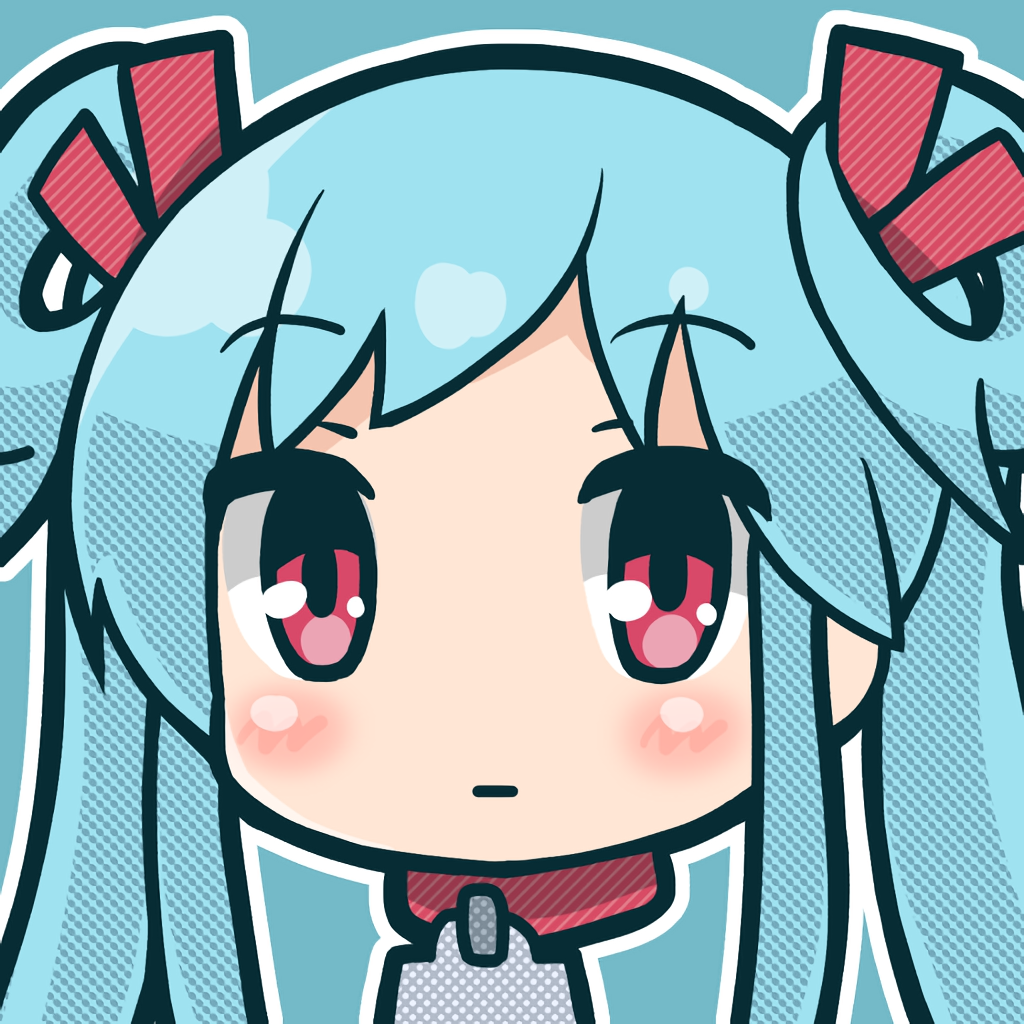
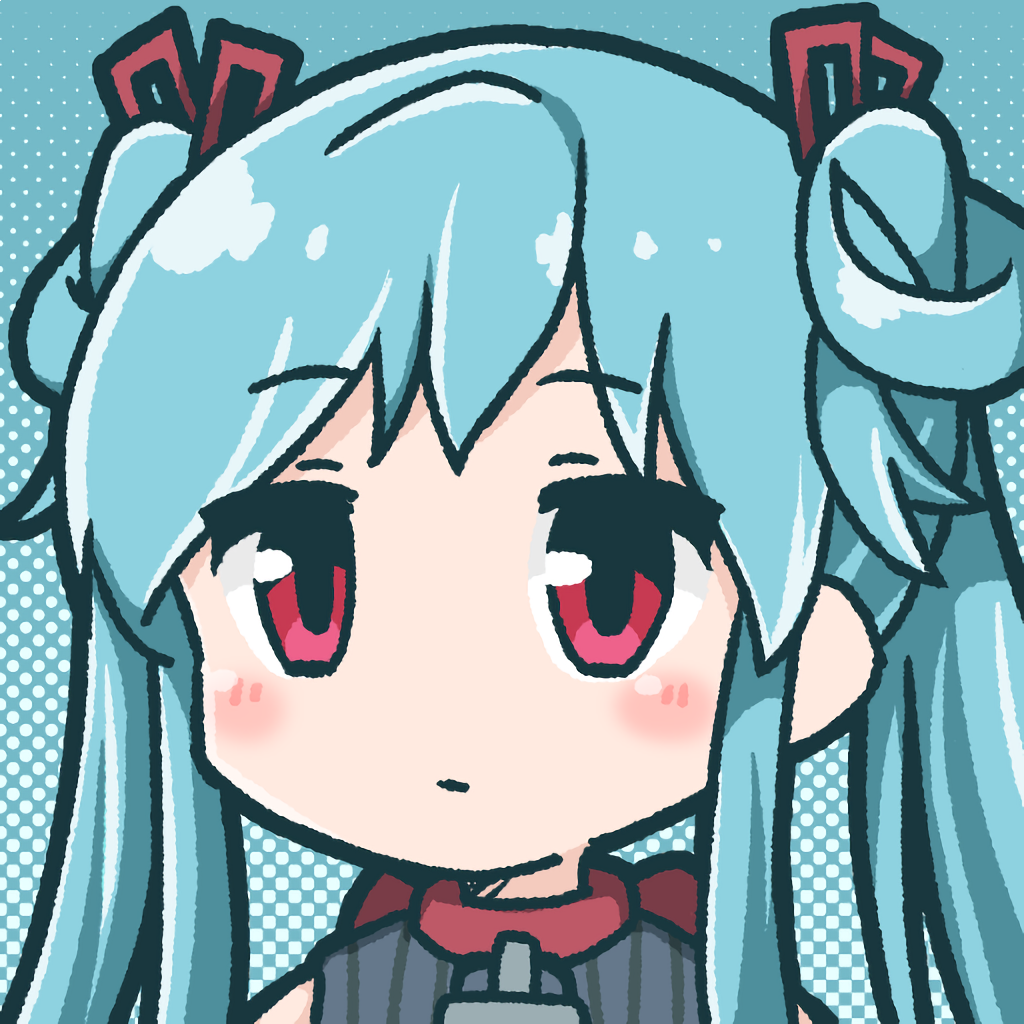
update profile picture
thanks: @yaplus

diff --git a/index.html b/index.html
@@ -1,90 +1,90 @@
 <!-- maud.io - maud-chan is so cute! (Special thanks:@yaplus)
 
-;;;;;;;;;;;;;;;;;;;;;;;;;;;;;;;;;;;;;;;;;;;;;;;;;;;;;;;;;;;;;;;;;;;;;;;;;;;;;;;;;;;;;;;;;;;;;;;;;;;;;;;;;;;;;;;;;;;;;;;;;;;;;;;;;;;;;;;;;;;;;;;;;;;;;;;;;;;;;;;;;;;;;;;;;;
-;;;;;;;;;;;;;;;;;;;;;;;;;;;;;;;         ;;;;;;;;;;;;;;;;;;;;;;;;;;;;;;;;;;;;;;;;;;;;;;;;;;;;;;;;;;;;;;;;;;;;;;;;;;;;;;;;;;;;;;;;;;;;;;;;;              ;;;;;;;;;;;;;;;;;;;
-;;;;;;;;;;;;;;                    ;;;;   ;;;;;;;;;;;;;;;;;;;;;;;;;;;;;;;;;;;                   ;;;;;;;;;;;;;;;;;;;;;;;;;;;;;;;;;;;;;;;;;  ;*#*;;;;;;          ;;;;;;;;;;;;
-;;;;;;;;;;      ;;;;;;;;;;;;;*########*   ;;;;;;;;;;;;;;;;;;;;;;;;;             ;;;;;;;;;;;               ;;;;;;;;;;;;;;;;;;;;;;;;;;;;;   ###\##########;;;;      ;;;;;;;;
-;;;;;;;    ;;*###############;;;;;;;###   ;;;;;;;;;;;;;;;;;;         ;;;;;*#####################**;;;;;;         ;;;;;;;;;;;;;;;;;;;;;;   ###;;;;;;;;;;########*;  ;;;;;;;
-;;;;    ;;######*;;;##;;;;;;;;;;;;;;###   ;;;;;;;;;;;;       ;;;;*############**************###############*;;;       ;;;;;;;;;;;;;;;;;  ;##;;;;;;;;;;;;;;;;;###;      ;;;
-;;   ;;#####*;;    ;##;;;;;;;;;;;;;;###;  ;;;;;;;;      ;;;#######**;;;;;;;;                    ;;;;;;;**########*;;;     ;;;;;;;;;;;;;  ;##;;;;;;;;;;;;;;;;;#####*;;
-   ;*####;;;       ;##;;;;;;;;;;;;;;###;  ;;;;     ;;;######*;;;;                                         ;;;;;*######*;;     ;;;;;;;;   ###;;;;;;;;;;;;;;;;##;;;;#####;;
- ;####*;;           ##*;;;;;;;;;;;;;###*       ;;*######;;;;                                                     ;;;*#####;;;    ;;;;   ;###;;;;;;;;;;;;;;;;#*     ;;*####
-*###*;      ;**;    ;##;;;;;;;;;;;;;;###    ;;#####*;;;                                                              ;;;*#####;;      ;#####;;;;;;;;;;;;;;;##;        ;;*#
-###;       ;####;   ;##;;;;;;;;;;;;;;###;;*#####;;                                                                        ;;*####;;  *##;;##;;;;;;;;;;;;;;;#*        ;;; ;
-#*;      ;*#;;;##*;  ;##;;;;;;;;;;;;;#######*;;                                                                              ;;;#######; ;#*;;;;;;;;;;;;;;##;;    ;;####;;
-;       ;##;;;;;*##;;;##;;;;;;;;;;;;;####*;                                                                                      ;;###;  ;#*;;;;;;;;;;;;;\#;;;;;*##;;;;;##
-      ;*#;;;;;;;;;##;;*#;;;;;;;;;;;\##*;                                                                                           ;#*    *#;;;;;;;;;;;;;#*;;*##;;;;;;;;;#
-     ;##;;;;;;;;;;;##;;##;;;;;;;;\##;;                                                              ;                              *#;    ;#;;;;;;;;;;;;##*##\;;;;;;;;;;;;
-    ;##;;;;;;;;;;;;;##*##;;;;;;\#*;                                                                ;;                              ##;     ;#;;;;;;;;;;*###;;;;;;;;;;;;;;;
-   ;;##;;;;;;;;;;;;;;####*;;;\#*;                   ;;                                             ;;                              *#;      ;##;;;;;;;##;;;;;;;;;;;;;;;;;;
- ;;;;;*#;;;;;;;;;;;;;;####;\#*;                    ;;                                             ;*                               *#;       ;##;;;*##;;;;;;;;;;;;;;;;;;;;
-;;;;;;;;##;;;;;;;;;;;;;#####;                     ;;                                              *;                               *#;        ;#####;;;;;;;;;;;;;;;;;;;;;;
-;;;;;;;;###;;;;;;;;;;;;;##;                      ;;                                              ;*                                ;#;         ;###;;;;;;;;;;;;;;;;;;;;;;;
-;;;;;;;######;;;;;;;;;;##;                      ;*                                              ;#;                                ;##          ;*#\;;;;;;;;;;;;;;;;;;##*;
-;;;;;*###; ;###;;;;;;\#*                       ;#;                                             ;#;                                  ;#;          ;*##;;;;;;;;;;;;\####;;;;
-;;;;*###;  ;#####;;;##;                       ;#;                                             ;##*                                  ;##;           ;##;;;;;;;\#####*##;;;;
-;;;;###;   *##; ;####;                        **                                            ;;#;;#;                                  ;#;            ;;##\###*;;;*##;###;;;
-;;;;###   ;##* ;;###;                        ;#;                                           ;##; ;#;                                   *#;             ;*##;     ;######;;;
-;;;*###;  ;##**#*##;                        ;##                                          ;;#;;  ;#;             ;#                    ;*#;              ;*#;;    ;#####;;;
- ;;;#########*;;*#;                       ;;*##;;;;;;;;;      ;*;                      ;;#*;     *#;      ;;;;;*##*;;;;;;              ;*#;               ;*#*;; ;####*;;;
-    ;;;;;;;;   ;#;                     ;;;;;##;  ;;;;;;;*;   ;*#;                    ;;#*;       ;#;  ;;;;;;;;;*#;; ;;;;**;;            ;*#;                ;;*##*###*;;;;
-              ;#*                    ;;;  ;*#*              ;###;                  ;*#;;          ##; ;       ;#;;#;      ;;#;           ;*#;                   ;;;;;
-             ;##;                   ;;    *##;             ;##;#;               ;;##;;            ;#;        ;#;  ;;         ;             ;#;
-            ;##;                         ;###;           ;;##;;#;            ;;*#;;                ;#;       *#;  ;#                        ;#*;
-           ;;##                         ;#;##;          ;*#;; ;#;         ;;*#*;                    *#;     ;#*    #;                       ;;##;                  ;
-; ; ;;;;;;;;##;                        ;#; ##;        ;;##;   ;#;      ;;*#*;                        #*;    *#;    ;#                    ;;;;;;*#;;               ;#;;;
-;;;;;;;;;;;*#*                        ;##; ##;       ;##;     #*   ;;;*#;;                           ;#*   ;##     ;#;            ; ;;;;;;;;;;;;;#*; ;            ;#;;;;;;
-;;;;;;;;;;;##;  ; ;                   ;#;  ##;     ;*#;;     ;#*;*##*;;                               ;#;  ;#;      ;#;      ; ;;;;;;;;;;;;;;;;;;;*#;;;;          ;#;;;;;;
-;;;;;;;;;;*##  ;;;;;; ;              ;#*   ##;   ;*#;;;;;;;  ;;;;;;                                ;;;;;#; ;#;      ;#*  ;;;;;;;;;;;;;;;;;;;;;;;;;;;#*;;;;;; ;    ;#*;;;;;
-;;;;;;;;;;##;  ;;;;;;;;;;;;; ;       *#;   ;#; ;*#;;    ;;;;                                            ;#;;#;       ;#; ;;;;;;;;;;;;;;;;;;;;;;;;;;;;*#*;;;;;;;;;;;##;;;;;
-;;;;*;;;;;##;  ;;;;;;;;;;;;;;;;;;;;;;#; ;;;;#**##;;;;;;                                                ;;;####****;;;;##; ;;;;;;;;;;;;;;;;;;;;;;;;;;;;;*#;;;;;;;;;;;#*;;;;
-*;;;;;;;;###; ;;;;;;;;;;;;;;;;;;;;;;####################*;;                                        ;;*####################*;;;;;;;;;;;;;;;;;;;;;;;;;;;;;;*#;;;;;;;;;######
-;;;;;;;;####; ;;;;;;;;;;;;;;;;;;;;;########################*;                                     ;##########################*;;;;;;;;;;;;;;;;;;*;;;;;;;;;;*#;;;;;;;;#*;##
-;;;;;;;#####  ;;;;;;;;;;;;;;;;;;;;###########*###############;                                   *####**#######################;;;;;;;;;;;;;;;;;;*;;;;;;;;;;;#*;;;;;;*#*##
-;;;;;;######  ;;;;;;;;;;;;;;;;;;;;####*;;;;  ;##############;;;                                 ;#;;;;;*################;;######;;;;;;;;;;;;;;;;;*;;;;;;;;;;;#**#;;;;;####
-;;;;*#######  ;;;;;;;;;;;;;;;;;;;;*##;      ;###############*                                         ;##################;;#*;*#;;;;;;;;;;;;;;;;;;#;;;;;;;; *#;;;##;;;;###
-;;;####;####; ;;;;;;;;;;;;;;;;;;;;*##;     ;#################;                                       ;###################; ;#*;;; ;;;;;;;;;;;;;;;;#;;;;;;;;;#*;;;;;##*;;##
-;*###;  ####; ;;;;;;;;;;;;;;;;;;;;*#;      ;##################                                       ;####################  ;##;  ;;;;;;;;;;;;;;;;;#;;;;;; *#;;;;;;;;*#**#
-###;    ####;  ;;;;;;;;;;;;;;;;;;;*#;      ;##################;                                      ;####################  ;###;   ;;;;;;;;;;;;;;;#;;;;; ;#*;;;;;;;  ;###
-#;;     #####  ;   ;;;;;;;;;;;;;;;*#;      ;####*;;#####;;;;##;                                      ;###\;;######\;\#####  ;#;;#*;  ;;;;;;;;;;;;;;##;;; ;##;;;;;;;;  ;###
-    ;   #####; ;   ;;;;;;;;;;;;;;;*#;      ;##;;;;*#####;;;;##*                                      ;##;;;;######;;;;;###  ;#;;;*#;;   ;;;;;;;;;;;;#;; ;*#;;;;;;;;;  ;##*
-  ;;;  ;#####* ;*;  ;;;;;;;;;;;;;;*#;      ;#;;   ;#####;;;;##*                                      ;;;   ;######;;;;;##*  ;#;;;;;*#*;   ;;;;;;;;;;#* ;*#;;;;;;;;;;  ;###
-;;;;;  ;##*###;;#;   ;;;;;;;;;;;;;*#;              *####;;;;##;                                             ;#####;;;;;##;  ;#*;;;;;;;#*;    ;;;;;;;##;##;;;;;;;;;;;   ###
-;;;;;  ;##*;##*;##;  ;;;;;;;;;;;;;*#;             ;\####;;  ;#;                                             ;;###;;;; ;*#   ;#*;;;;;;;;*##;;    ;;;;*###;;;;;;;;;;;;   *##
-;;;;;  ;##* *#####*;   ;;;;;;;;;;;;#;       ;;;;;;;;;;;;;;;;*#;                                      ;;    ;;;;;;;;;   ;;   ;##;;;;;;;;*#*;**;;   ;;;##;;;;;;;;;;;;    ;##
-;;;;;  ;### ;####;#*;   ;;;;;;;;;;;#;        *#;;;;      ;;##*                                        ##;;;;;      ;;;**     ##;;;;;;;;##*  ;;*#;;; ;#;;;;;;;;;;;;;    ;##
-;;;;;  ;###  ;###;;#*;  ;;;;;;;;;;;#;         ##;;;       ;##;                                        ;##;;;        ;#*      ##;;;;;;;;###      ;;*#*#*;;;;;;;;;;;;     *#
-;;;;;  ;###   *##;;;#*;   ;;;;;;;;;#*         ;##\;     ;;##;                                          ##\;;      ;;##       ##;;;;;;;;*##        ;#;;;;;;;;;;;;;;;     ;#
-;;;;;  ;###   ;*#;;;;##;   ;;;;;;;;##           *##*;;;;###;                                           ;###\;;;;;;##;        ##;;;;;;;;*##        ##;;;;;;;;;;;;;;;     ;#
-;;;;;  ;##*   ;;*;;;;;*#*;  ;;;;;;;##            ;;;;**;;;;                                              ;;*####*;;          *#;;;;;;;;;##;      ;#*;;;;;;;;;;;;;;;      ;
-;;;;;  *##*   ;;;;;;;;;;##;   ;;;;;*#;                                                                                       *#;;;;;;;;;##;     ;##;;;;;;;;;;;;;;;;      ;
-;;;;   *##*   ;;;;;;;;;;;##*;   ;;;;#;                                                                                       ;#;;;;;;;;;##;    ;###;;;;;;;;;;;;;;;;
-;;;;   ###;   ;;;;;;;;;;;#**#*;;  ;##;                                                                                       ;#;;;;;;;;;##;  ;*####;;;;;;;;;;;;;;;;
-;;;;   ###;   ;;;;;;;;;;*#;;;*##;;;##;                                                                                       ;#;;;;;;;;;##*;#######;;;;;;;;;;;;;;;;
-;;;;  ;###;   ;;;;;;;;;;##;;;;;*##*##;                                                                                       ;#;;;;;;;;;*####;;;###;;;;;;;;;;;;;;;;
-;;;;  ;###;   ;;;;;;;;;;##;;;;;;;*###;                                                                                       ;#;;;;;;;;;;###;  ;###;;;;;;;;;;;;;;;;;
-;;;;  ;###;   ;;;;;;;;;;##;;;;;;;;;###                                                                                       ;#;;;;;;;;;;###;  ;###;;;;;;;;;;;;;;;;;
-;;;;  *##*    ;;;;;;;;;;##;;;;;;;;;;##;                                                                                      ;#;;;;;;;;;;###;  ;###;;;;;;;;;;;;;;;;;
-;;;   ###;    ;;;;;;;;;;##;;;;;;;;;;;##*;                                      ;;;;;;;                                      ;*#;;;;;;;;;;###;   ###;;;;;;;;;;;;;;;;;;
-;;;  ;###;    ;;;;;;;;;;##;;;;;;;;;;;####*;                                    ;;;;;;;                                   ;;####;;;;;;;;;;*##;   ###;;;;;;;;;;;;;;;;;;
-;;;  ;###    ;;;;;;;;;;;##;;;;;;;;;;;#######;;                                                                        ;;#######;;;;;;;;;;;##*   *##;;;;;;;;;;;;;;;;;;
-;;   *##;    ;;;;;;;;;;;##;;;;;;;;;;;###;;#####*;;                                                               ;;;*#####*;*##;;;;;;;;;;;###   ;##;;;;;;;;;;;;;;;;;;;
-;;   ###;    ;;;;;;;;;;;##;;;;;;;;;;;###    ;;*#####;;;;                                                   ;;;;*######*;;   *##;;;;;;;;;;;###   ;##; ;;;;;;;;;;;;;;;;;;
-;;  ;##*     ;;;;;;;;;;;##;;;;;;;;;;;###;       ;;;#######*;;;;;                                   ;;;;;*########*;;;       *##;;;;;;;;;;;###;   ###;;;;;;;;;;;;;;;;;;;
-;   ###;    ;;;;;;;;;;;;##;;;;;;;;;;;*##;  ;;;;      ;;;;###########**;;;;;;;;;;;;;;;;;;;;;;;;;*#######\;\;;;##*      ;;;   ###;;;;;;;;;;;###;   *##;;;;;;;;;;;;;;;;;;;
-;  ;###     ;;;;;;;;;;;;##;;;;;;;;;;;;##*   ;;;;;;;         ;;;;####\#######################\\\;;;;;;;;;;;;;;###;  ;;;;;;   ###;;;;;;;;;;;###;   ;##; ;;;;;;;;;;;;;;;;;;
-   *##;     ;;;;;;;;;;;;*#;;;;;;;;;;;;###   ;;;;;;;;;;;;;;      ####;;;;;;;;;;\;\\;;;;;;;;;;;;;;;;;;;;;;;;;;;\##;  ;;;;;;   ###;;;;;;;;;;;###;   ;##* ;;;;;;;;;;;;;;;;;;
-  ;###;    ;;;;;;;;;;;;;*#; ;;;;;;;;;;###;  ;;;;;;;;;;;;;;;;;   ####;;;;;;;;\#*;**##;;;;;;;;;;;;;;;;;;;;;;;;;*##;  ;;;;;;   ###;;;;;;;;;; ###;    ###; ;;;;;;;;;;;;;;;;;;;
-  *##;     ;;;;;;;;;;;;;;#* ;;;;;;;;;;;##;  ;;;;;;;;;;;;;;;;;   ####;;;;;;\;##;;;;;##;;;;;;;;;;;;;;;;;;;;;;;###;   ;;;;;;  ;##*;;;;;;;;;; ###;    ;##; ;;;;;;;;;;;;;;;;;;;
- ;##*      ;;;;;;;;;;;;;;## ;;;;;;;;;;;###   ;;;;;;;;;;;;;;;;;  ;####;;;;#**##;;;;;####;;;;;;;;;;;;;;\*######;    ;;;;;;;  ;##;;;;;;;;;;; ###;     ###;  ;;;;;;;;;;;;;;;;;
- ###;     ;;;;;;;;;;;;; ;##; ;;;;;;;;;;###;  ;;;;;;;;;;;;;;;;;   ;*######;  ##;;;;;##;;##;;;;;;*########*;;     ;;;;;;;;;  ;##;;;;;;;;;;; ###;     *##;  ;;;;;;;;;;;;;;;;;
-;##*      ;;;;;;;;;;;;; ;##; ;;;;;;;;;;*##;  ;;;;;;;;;;;;;;;;;     ;*###*   ;#;;;;;#*  ;*########*;;;;       ;;;;;;;;;;;;  ;##;;;;;;;;;; ;###   ;  ;###;  ;;;;;;;;;;;;;;;;
-###;      ;;;;;;;;;;;;; ;##; ;;;;;;;;;;;##*   ;;;;;;;;;;;;;;;;  ;#######;   ;##;;;*#;   ;#######*       ;;;;;;;;;;;;;;;;   *##;;;;;;;;;; ;###   ;   *##*   ;;;;;;;;;;;;;;;
-##;      ;;;;;;;;;;;;;  *##;  ;;;;;;;;;;###   ;;;;;;;;;;;;;;;   ###;;;;;     ;;;;;;;     ;;;;;*##;  ;;;;;;;;;;;;;;;;;;;;   ###;;;;;;;;;  ;##;  ;;;  ;###;   ;;;;;;;;;;;;;;
-#*       ;;;;;;;;;;;;;  ####  ;;;;;;;;;;*##;  ;;;;;;;;;;;;;;;  ;##;                           ;##*   ;;;;;;;;;;;;;;;;;;;  ;##*;;;;;;;;;  *##;  ;;;   ;##*;  ;;;;;;;;;;;;;;
-#;      ;;;;;;;;;;;;;  ;####;  ;;;;;;;;;;##*   ;;;;;;;;;;;;;   *##;                           ;###;  ;;;;;;;;;;;;;;;;;;;  ;##;;;;;;;;;  ;###   ;;;;   ###;   ;;;;;;;;;;;;;
-;       ;;;;;;;;;;;;; ;#####;   ;;;;;;;;;###   ;;;;;;;;;;;;;  ;###;                            ;##;  ;;;;;;;;;;;;;;;;;;   *##;;;;;;;;;  ;##*   ;;;;;  ;###;   ;;;;;;;;;;;;
-;      ;;;;;;;;;;;;;  ;#####*   ;;;;;;;;;###;  ;;;;;;;;;;;;;  ;##*                             ;###   ;;;;;;;;;;;;;;;;;   ###;;;;;;;;   ###;  ;;;;;;   *###;  ;;;;;;;;;;;;
+;;;;;;;;;;;;;;;;;;;;;;;;;;;;;*;;;;;;;;;;;;;;;;;;;;;;;;;;;;;;;;;;;;;;;;;;;;;;;;;;;;;;;;;;;;;;;;;;;;;;;;;;;;;;;;;;;;;;;;;;;;;;;;;;;;;; ;;;;;;*;;;;;*;;;;;;;;;;;;;;;;;;;;;;;;
+;;;;;;;;;;;;;;;;;;;;;;;;;;*###* ;;.;;;  ;;;;;;;;;;;;;;;;;;;;;;;;;;;;;;;;;;;;;;;;;;;; ; ;;;;;;;;;;;;;;;;;;;;;;;;;;;;;;;;;;;;;;;;;.;*###############*; ;;;;;;;;;;;;;;;;;;;;;
+;;;;;;;;;;;;;;;;;;;;;;*####;*##*;;*#####**;*;  ;;;;;;;;;;;;;;;;;;;;;;;; ;;;;;;****######****;;;;;;;;;;  ;;;;;;;;;;;;;;;;;;;;;;;;*##;;;;;;;;;;;;*#####** ;;;;;;;;;;;;;;;;;;
+;;;;;;;;;;;;;;;;;;;;####;;;;;*##[ ##*;;;*######**;;;;;;;;;;;;;;; ;;;**######*******- - **********#######***;; ;;;;;;;;;;;;;;;;;;|#*;;;;;;;;;;;;*#*;;*###***.;;;;;;;;;;;;;;
+;;;;;;;;;;;;;;;;;;###;;;;;;;;*##**##*;;;;;;;;;*###*;;;;;;; ;;***####***-; ~~                ;;;;;;   ;****####**;;; ;;;;;;;;;;;;*##*;;*######*;*#*;;;;;;*###*;;;;;;;;;;;;;
+;;;;;;;;;;;;;;;*##*;;;;;;##*;;######*;*;;;;;;;;##**;;;;***###***- ~                ;;;;;;;;;;;;;;;;;;;;;;;  ;***####**; ;;;;;;;;*##*;;*##**##*;*#####;;;;*##*;;;;;;;;;;;;;
+;;;;;;;;;;;;;;;*##*;;;######*;;####*;;#####*;;*##*;;*###*** ~        ;; ;;;*******#***; ;;;;;;;;;;;;;;;;;;;;;;;; ;-**####**;;;;;|##*;;;##*]###;*##**##*;;##*;;;;;;;;;;;;;;
+;;;;;;;;;;;;;;; *##*;;###**##*;####*;;#####*;;######**-~        ;;  ;*****-~      ~~'-****;;;;;;;;;;;;;;;;;;;;;;;;;;;  ***###*;.]###;;;##*|###;###**##*;###*;;;;;;;;;;;;;;
+;;;;;;;;;;;;;;;; *##;;*##**###;;##*;;######;;###**+~      ;;;;; ;****-~                 '*;;;;;;;;;;;;;;;;;;;;;;;;;;;;;;;; **###*###*;;##* *##;####***####**;;;;;;;;;;;;;;
+;;;;;;;;;;;;;;;;;+###;;########;;##;;########**       ;;;;;;;;***+        ;;;;;;;;;;;;;;;;;;;;;;;;;;;;;;;;;;;;;;;;;;;;;;;;;;; **####*;;###*###** ~    ~'-*##**;;;;;;;;+;;;
+;;;;;;;;;;;;;;;;;;*##**- ~~~'**###;;;#####*+~     ;;;;;;; ;***~     ;;;;;;;;;;;;;;;;;;;;;;;;;;;;;;;;;;;;;;;;;;;;;;;;;;;;;;;;;;;; **##;;;####*             \*##* ;;;;;;;;;;
+;;;;;;;; ;;;;;;;/##*/          |##;;###*-      ;;;;;;; ;***    ;;;;;;;;;;;;;;;;;;;;;;;;;;;;;; ;;; ;;;;;;;;;;;;;;;;;;;;;;;;;;;;;;;; *#;;;##*'   ;;;;;;;;;;;  \##*;;;;;;;;;;
+;;;;;; ;;; ;;;;.*#*   ;;;;;;;;;*#;;#**~     ;;;;;;;;; **'  ;;;;;;;;;;;;;;;;;;;;;;;;;;;;;;;;;;;;;**;;;;;;;;;;;;;;;;;;;;;;;;;;;;;;;;;|##;##/  ;;;;;;;;;;;;;;;; *##*;;;;;;; ;
+;;;;;;;; ;;;;; *#*  ;;;;;;;;;; *##*       ;;;;;;;;;;;;; ;;;;;;;;;;;;;;;;;;;;;;;;;;;;;;;;;;;;;;;;**;;;;;;;;;;;;;;;;;;;;;;;;;;;;;;;;; *###*;**;;;;;;;;;;;;;;;;;+##*;;;;; ;;;
+;;;;;;;;;; ;;;*##/  ;;;;;;;; ;*#*          ;;;;;;;;;;;;;;;;;;;;;;;;;;;;;;;;;;;;;;;;;;;;;;;;;;;; #*;;;;;;;;;;;;;;;;;;;;;;;;;;;;;;;;;;'*#*  *#*. ;;;;;;;;;;;;;;;*##* ;.;;; ;
+;;;;;;;;;;;;;.##*  ;;;;;;;;;*#*'           ;;;;;;;;;;;;;;;;;;;;;;;;;;;;;;;;  ;;;;;;;;;;;;;;;;;;]#*;;;;;;;;;;;;;;;;;;;;;;;;;;;;;;;;;; **[;;[#****;;;;;;;;;;;;; *####** .;;;
+;;;;;;;;;;;;;*##/ ;;;;;;; *#*/               ;;;;;;;;;;;;;;;;;;;;;;;;;;;;;;  ;;;;;;;;;;;;;;;;;;]#*;;;;;;;;;;;;;;;;;;;;;;;;;;;;;;;;;;]#*;;;[#['*#* ;;;;;;;;;;;;;#*;;####**
+;;;;;; ;;; ; ##*[ ;;;;; ;**/                  ;;;;;;;;;;;;;;;;;;;;;;;;;;;;  ;;;;;;;;;;;;;;;;;  |#*;;;;;;;;;;;;;;;;;;;;;;;;;;;;;;;;;;|#*;;;|#*;;'*#* ;;;;;;;; ;;#*;;;;;*###
+;;;; ;;; ;;;*##* ;;;;; *#*                    ;;;;;;;  ;;;;;;;;;;;;;;;;;;;  ;;;;;;;;;;;;;;;;   |#*;;;;;;;;;;;;;;;;;;;;;;;;;;;;;;;;;;|#*;;;]#* ;;;\** ;;;;;;;;;;##;;;;;;;;*
+;;;;;; ;;;/####* ;;;;;**                     ;;;;;;    ;;;;;;;;;;;;;;;;;;   ;;;;;;;;;;;;;      [*|;;;;;;;;   ;;;;;;;;;  ;;;;;;;;;;;;|#*;;; *#*;;;;'*#* ;;;;;;;;**;;;;;;;;;
+;;;; ;;;+*##**#[;;;;*#*                     ;;;;;;     ;;;;;;;;;;;;;;;;;;   ;;;;;;;;;;;;;      **;;;;;;;;     ;;;;;;;;   ;;;;;;;;;;;|#[;;;;'*#* ;;;;\**_;;;;;;;**;;;;;;;;;
+;;;;;; *##*;;|* ;;;**/               ;     ;;;;;;;;   ;;;;;;;;;;;;;;;;;;;  ;;;;;;;;;;;;;;     |##[;;;;;;;     ;;;;;;;;;;;;;;;;;;;;;;*#*;;;;; \*** ;;;'***;;;;;;**;;;;;;;*;
+;;;; *###*   **;;;**[   ;;         ;;;;;;;;;;;;;;;;;;;;;;;;;;;;; ;;;;; ;;  ;;;;;;;;;;;;;;;;   [##*;;;;;;;;;;;;;;;;;;;;;;;;;;;;;;;;;;|#*;;;;   '****  ;;\#*;;;;;#*;;;;;;**;
+;;+ *##* ;|***#;;#*'   ;;;;;;;;;;;;;;;;;;;;;;;;;;;;;;;;;;;;;;;;   ;;;;+;   ;;;;;;;;;;;;;;;;  |#*#*;;;;;;;;;;;;;;;;;;;;;;;;;;;;;;;;;; **[;;;      '-****;*#*;;;;#*;;;;#** ;
+;;;*##*;;;;\###*#*[   ;;;;;;;;;;;;;;;;;;;;;;;;;;;;;;;;;;;;;;;;;  ;;;;;**|  ;;;;;;;;;;;;;;;;; **~**;;;;;;;;;;;;;;;;;;;;;;;;;;;;;;;;;;;\#*;;;         ~ -********###**-  ;;;
+;;*##*;;;;;;'**#*[   ;;;;;;;;;;;;;;;;;;;;;;;;;;;;;;;;;;;;;;;;    ;;;; **   ;;;;;;;;;;;;;;;; *#/ |* ;;;;;;;;;;;;;;;;;;;;;;;;;;;;;;;;;; **[;;;                 ~~~~~   ;;;;
+;.##* ;;;;;;;;*#/   ;;;;;;;;;;;;;;;;;;;;;;;;;;;  ;;;;;;;;;;;    ;;;;;;**   ;;;;;;;;;;;;;;;;/#/  *#[;;;;;;;;;;;**;;;;;;;;;;;;;;;;;;;;;; ** ;;;         ;;;        ;;;;;;;;
+;*##*;;;;;;;;/#*    ;;;;;;;;;;;;;;;;;;;;;;;;;;   ;;;;;;;;;;   +[;;;;;;#*   ;;;;;;;;;;;;;;;*#*   \#*;;;;;;;;;;]#*;;;;;;;;;;;;;;;;;;;;;;.*#*.;;;;;   ;;;;;;;;;;;;;;;;;;;;;;
+;*##*;;;;;;;/#*    ;;;;;;;;;;;;;;;;;;;;;;;;;;;   ;;;;;;;;;   .*[;;;;;*#*   ;;;;;;;;;;;;; *#/    |** ;;;;;;;;;|#*;;;;;;;;;;;;;;;;;;;;;;*#**** ;;;;;;;;;;;;;;;;;;;;;;;;;;;;;
+;*##*;;;;;; *#[   ;;;;;;;;;;;;;;;;;;;;;;;;;;;    ;;;;;;;    /*#*;;; ;*#*   ;;;;;;;;;;;;/***      |#*;;;;;;;; **;;;;;;;;;;;;;;;;;;;;;; *#*;;*#* ;;;;;;;;;;;;;;;;;;;;;;;;;;;
+; ##* ;;;;;*#*   ;;;;;;;;;;;;;;;;;;;;;;;;;;;     ;;;;;;;- _/**#*;;;;;##*   ;;;;;;;;;; *#*    _  _]#* ;;;;;;;|#*;;;;;;;;;;;;;;;;;;;;;; **;;;;;*#**  ;;;;;;;;;;;;;;;;;;;;;;;
+;;\##*;;;;/#*    ;;;;;;;;;;;;;;;;;;;;;;;;; ;;********;   *#**|**;;;;*#**  ;;;;;;;;;;.**   *********#***;-   |#*;;;;;;;;;;;;;;;;;;;;;;|**;;;;;;;;;*#**-   ;;;;;;;;;;;; ;;##
+;; **###;;*#[   ;;;;;;;;;;;;;;;;;;;;;;;;;***+~ ;;;;;    /#*'  ** ;;*#/|#*  ;;;;;;;.*#*            ]**[ ;*** [#*;;;;;;;;;;;;;;;;;;;;;;|**;;;;;;;;;;*#*;*#*******;;;;**###*;
+;; ;  **###*    ;;;;;;;;;;;;;;;;;;;;;;;;;;    ;;;;;   .***    ** ;;#* ]**  ;;;;;; **/              |#\  ;; |*#*;; ;;;;;;;;;;;;;;;;;;;|**;;;;;;;;;;;**;;;;;;;;;;*####**;; ;
+;; ;;; ;|##[    ;;;;;;;;;;;;;;;;;;;;;;;;;    ;;;;   .*#*      |#;;#*   |#\ ;;;; *#*'                **[  ; ]#***;;;;;;;;;;;;;;;;;;;;; *#*;;;;;;;;;;;*#*;;;;;;;;*####*;;; ;
+';;; ;; *#*|   ;;;;;;;;;;;;;;;;;;;;;;;;;    ;;;    ***       |*#*#*     **[ ;;/***                  +#*    |#*|#*;;;;;;;;;;;;;;;;;;;;;*#*;;;;;;;;  ;;***;;;;;;;*#*##*; ;;;
+;; ;;; |##*    ;;;;;;;;;;;;;;;;;;;;;;;;;    ;;   +***        |###*      ]**[ ***                     \#\   |#* **;;;;;;;;;;;;;;;;;;;;;\#*;;;;;;;;  ;;;*#* ;;;;;*#*##*;;; ;
+ ;;; ;;*##*    ;;;;;;;;;;;;;;;;;;;;;;;     ;   /***          ]##*        ]****/              _ - ._   *#\  [#[ '#*;;;;;;;;;;;;;;;;;;;; *#\;;;;;;;  ;;;;;#*;;;;;*#**##* ;;;
+;  ;; *###*    ;;;;;;;;;;;;;;;;;;;;;;;    ;  /**********-    [*/          \*#/             |**___-*'   *#\ [#[  *#*;;;;;;;;;;;;;;;;;; ; ** ;;;;;;  ]*;;;;*#*;;;##;*##*;;
+';; ]*##*#*    ;;;;;;;;;;;;;;;;;;;;;       +***   |~   ~                   '*                 __  - - -**#**#[   *#*;;;;;;;;;;;;;;;;; ;; ** ;;;;;   **;;;;;****#*;;*#*[;;;
+;  ;*##*]**    ;;;;;;;;;;;;;;;;;;;;    _ **##****##*##*~*-_                               +**##################****#*;;;;;;;;;;;;;;;; ;;;\#* ;;;;;  \#*;;;;;;**#*;;*##*;
+ ;;##**;]**|   ;;;;;;;;;;;;;;;;;;;  -**###################*'                             |###########################**_ ;;;;;;;;;;;  ;; |##*+;;;;   *#*;;;;;;;**##*###*;;
+;###*';**#*|   ;;;;;;;;;;;;;;;;; /*#######################*                              '***##########################**;;;;;;;;;;;  ;; |*;*#\;;;;  +*#*#######*##;*##*
+###***#####|  |[;;;;;;;;;;;;;;;  ]*#######################\                                 *##########################* ;;;;;;;;;;;    ]#*;;*#* ;;;  \#*;;;*#*;;;;;;*##*;
+#*****-;|##* |**;;;;;;;;;;;;;   .***####** *##############*                                |###################* **#####\ ;;;;;;;;;     |#*;;;;*** ;   \**;;##;;;;;;;;##*
+ ;;; ; ;]*#*[|#*;;;;;;;;;;;;   *** |#**'  ]*****##########*                               |*****###############*[  \*#*\#\ ;;;;;;;;     [#;;;;; *#*.;   \#*##;;;;;;;;;*##*
+;; ; ; ; [##*|#*;;;;;;;;;;;  /**'  **[         '*#########*|                                    ~'*#############[   \*[ *#\ ;;;;;;;    ]#*;;;;;;;;;**-.  \##*;;;;;;;;;;##*
+   ; ; ; ]##*+#**;;;;;;;;  .***    *[           +######*;*#|                                      |#############|    '+  \*\ ;;;;;;    /#*; ;;;;;;;;;*#****#*;;;;;;;;;;*##
+ ;;  ; ;  [####***;;;;;;  /*#*[           /-; ~;;######*;;#[                               +.   -*#######*;;;###[         **\ ;;;;    ]******-;;;;;;;;;*#*;*#*;;;;;;;;;;*#
+;  ;;;  ;;]####**#*;;;;; *#*;#*           [#*;;;;*#####*;;*|                               **;;;;;#######*;;;;#*|         ]**[ ;;;    ***  '\**;;;;;;;.#*;;;;;;;;;;;;;;;+#
+ ;   ; ' ;;*###[;*#*;;; *#;;;*#*          ]#*;;;;;#####*;**                                [#*;;;;#######*;;;;#*          ]##* ;;;   /#*     +**;;;;;/##;;;;;;;;;;;;;  ;;*
+;  ; ;   ; ]###[;;*#*;;*#*;;;;**[          [#*;;;;*###*;;#*                                ]**;;;;*#####*;;;;#*           ****[ ;   /**        *#*;;/#*;;;;;;;;;;;;;;  ;;
+ ;;  ;;;  ;]###[;;;;**;;;;;;;;;#*          ]**;;;;;****;*#|                                 \#*;;;;*****;;;;#*           |#**#*    /**          [#\*#*;;;;;;;;; ;;;;;   ;;
+;  ;;   ;; |##* ;;;;;*#*;;;;;;;*#|          +**;;;;;;;;;**                                   *#*;;;;;;;;;;;#*            [#;;**   *##|          ]*##;;;;;;;;;;;;;;;;;   ;;
+ ;;   ;;  ;|##* ;;;;;;;;**;;;;;;#*           \**;;;;;;;**/                                   '**;;;;;;;;;*#*            ]**;;*#\/*##*|           |#*;;;;;;;;;;;;;;;;;   ;;
+;  ;;   ;+ |##*   ;;;;;;*#***;;;**            ]*#######*/                                      \*******;**/             |#*;;*###;;#*            [#*;;**;;;;;;;;;;;;;;  ;;
+ ;;   ;   ;*##* ;  ;;;;;*#| ;;;;#*             '' ' -;'                                          ~'-  -                **;;;;;;;;;#*           /#*;;;*#*;;;;;;;;;;;;;   ;
+;  ;;   ;; [##| ;  ;;;;;*#* ;;;;#*                                                                                     ]#*;;;;;;;;*#|          .*#;;;;*#*;;; ;;; ;;;;;   ;
+ ;;   ;   ;*##[ ;  ;;;;;*#* ;;;;#*                                                                                     |#;;;;;;;;;*#[        .*#*;;;;;;#*;;;;;;;;;;;;;
+;  ;     .]*#*| ;  ; ;;;;#* ;;;*#*                                                                                     **;;;;;;;; **|       *###*;;;;;;#*;; ;;;;;;;;;;
+       ; .]##*  ;    ;;;;#* ;;;*#*                                                                                    ]#*;;;;;;;;]#*     -*#####*;;;;;*#*;;; ;;;;;;;;;;
+         .|##*  ;    ;;;;#* ;;; #*|                                                                                   |#*;;;;;;;;|#* _-*##** *##*;;;;;*##;;;;;;;;;;;;;;
+          *##* ;;    ;;;;#*  ;;|##[                                                                                   [#[;;;;;;;;|#####*** ; [##*;;;; *##*;;; ;;;;;;;;;
+          *##[ ;;+   ;;;;#*  ;; *#*_                                                                                 ]** ;;;;;;;;*##**   ;   |##*;;;;;*##*;;;;;;;;;;;;;;
+       ; ]##*| ;;|   ;;;;#*  ;; ;*##*.                                     _                                         ]#* ;;;;; ;;[##*  ; '   |##*;;;;;|##*;;;;;;;;;;;;;;
+ ;       |##* ; ;|  ;;;;;#*  ;; ;;;;##*-                                 -****                                       '#* ;;;;;;; *##[    '   |##*;;;; *##*; ; ;;;;;;;;;;;
+    ;   ;[##| ; ;    ;;;;**  ;;;;;;;*###**+_                                                                      **###| ;;;;;;; *#*    ;'   |##*;;;; *##*;;;;;;;;;;;;;;;
+ ;    ; ]*#*| ; ;    ;;;;#*  ;;;;;;;;###*##**-_                                                              -**###*###[ ;;;;;;;]*#*  ;  ';; [##*;;;; *###*;;;;;;;;;;;;;;;
+;  ;    /##*  ;;;   ;;;;;#*|  ;;;;;;;##*['**###**-+_                                                     -**###**+ |##*  ;;; ;;;|##*     '  ;*##*;;;; *###*;;;;;;;;;;;;;;;
+ ;;   ; [##* ;;;;   ;;;;;**|  ;;;;;;;*##*+   ****###**-__                                         _ -***###**;' ;; |##* ;;;; ;;;|##*  ;  +;; |##*; ;; *###*;;;;;;;;;;;;;;;
+;   ;   *#*  ;;;;   ;;;;;**|  ;;;;;;;*##*+;;  ;; '***####**-_.                                   /*##***+';;  ; __ *##* ;;;; ;;;|##*;   ;   ;|##*; ;; *###*;;;; ;;;;;;;;;;
+ ;;   ;|##* ;;;;;   ;;;;;**|  ;;;;;;;*##*+  ;   ;;   ; +***###***;-  .                 _ -+**|  /####*~*;. +;*#####*##[ ;;;;;;;;|##*  ;  +;  ]##*;;;; *####*;;;;;;;;;;;;;;
+;   ;  *#*[ ;; ;;   ;;;;;#*|  ;; ;;;;;##*|;   ;;   ;   ;. |;*##########*****;_____********-     |##;###########;;;####| ;;;;;;;;|##*;   ;.  ; *##*;;;;|####*;;;;;;;;;;;;;;
+ ;;   |##* ;;;;;;  ;;;;;*#*|  ;; ;;;;;##*.  ;   ;;   ;   ;+*###;;;;######;;;#***#****           |#;;;;;;###;;;;;;;;;##| ;;;;;;;;|##*  ;  +;; ]*##*;;;;[####*;;;; ;;;;;;;;;
+     _*##[ ;;;;;   ;;;;;*#*|  ;;;;;;;;*##[ ;  ;          /###;;;;;;;;##;;;;;;##****|_      ;_-**##*;;;;;###;;;;;;;;;#*  ;;;;;;;;|##*     +  ; |##*;;;;|#####*;;;;;;;;;;;;;
+     /##*  ;; ;;|  ;;;;;##*|  ;;;;;;;;*##*              |###;;;;;;;;##;;;;;;;;;;##*#######;;;;;;;;;;;;;;;##;;;;;;;;;#*  ;;;;;;;;;###[    |    |##* ;;;[#####*;;;;;;;;;;;;;
+     *##/ ;;;;;;  ;;;;;*##*|  ;;;;;;;;*##*              *##;;;;######*;;;;;;;;;;;;;;;;;;;;;;;;;;;;;;;;;;;######;;;;;#*  ;;;;;;;;;*##[    .     [##[;;;|##**##*;;;;;;;;;;;;
+    .##*  ;;;;;;+ ;;;;;*##*|  ;;;;;;;;*##*            ./#######;;;;###;;;;;;;;;;;;;;;;;;;;;;;;;;;;;;;;;###;;;;####;;#*  ;;; ;;;;;*##*    |     |##*;;;|##*\##*;;;;;;;;;;;;
+   \*##/  ;; ;;;;;;;;;;###*  ;;;;;;;;;*##*          +*######;;;;;;;;;;#*;;;;;;;;;;*#******;;;;;;;;;;;##;;;;;;;;;#####*  ;;; ;;;;;*##*    |     ]##* ;;|##*]*##;; ;;;;;;;;;
+   *##*  ;;;;;;; ;;;;;####*  ;; ;;;;;;*##*        \*###;;;;;;;;;;;;;;;;;*#*;;;;;;*#*;;;;*#*;;;;;;###;;;;;;;;;;;;;;;;#*  ;;;;;;;;;;##*    +      *##[;; *##[\##*;;;; ;;;;;;
+  .*#*  ;;; ;;;;;;;;;*####*  ;;;;;;;;;*##*      .;*###;;;;;;;;;;;;;;;;;;;;;*#######*;;;;|######*;;;;;;;;;;;;;;;;;;;;#*  ;;;;;;;;;;##*[   |      |##*;;;*##* *##*;;;;;;;;;;
+  *##*  ;;;;;;;;;;;;;#####*  ;;;;;;;;;*##* +  ;*##***#;;;;;;;;;;;;;;;;;;;;;*#*;;;** ;;;;*#;;;##*;;;;;;;;;;;;;;;;;;;;#*  ;;;;;;;;;;*##[   +      ]##* ;;\##* \##*;;;; ;;;;;
+ *##*  ;;;;;;;;;;;;;##**##*  ;;;;;;;;;*##[ +*##**   *#;;;;;;;;;;;;;;;;;;;;*##;;;;##*;;;;*#;;;*##;;;;;;;;;;;;;;;;;;;;#*  ;; ;;;;;;;*##**. +;   ;  [##*;;|##*  [##*;;;;;;;;;
+;##*   ;;;;;;;;;;;;*##/[##|  ; ;;;;;;;*##*###*     ]**;;;;;;;;;;;;;;;;;;;#*****;*;;******;******#*;;;;;;;;;;;;;;;;;;**  ;; ;;;;;;;;#**##*|  ;   ;\##* ; *#*[ '*##*;;; ;;;;
+##*+  ;;;;;;;;;;;;*##* *#*[ ;;;;;;;;;;#####*'      |#*;;;;;;;;;;;;;;;;;;#* ;;;;;;;;;;;;;;;;;;;; *#;;;;;;;;;;;;;;;;;;*#| ;;;;;;;;;;;#*'*###*.  ;   *##*;;*##*  \##*;;;;;;;;
 
 -->
 <!DOCTYPE html>
@@ -150,8 +150,7 @@
 						<h2><span class="text-success icon-globe"></span> Accounts</h2>
 						<p>Twitter - <a href="https://twitter.com/lindwurm" target="_blank">@lindwurm</a></p>
 						<p>Blog - <a href="http://blog.maud.io" target="_blank">ておくれブログ</a></p>
-						<p>Blog(Sub) - <a href="http://memo.maud.io" target="_blank">ほためも</a></p>
-						<p>Blog(Dev) - <a href="http://dev.maud.io" target="_blank">mordiford</a></p>
+						<p>Blog(Dev) - <a href="http://dev.maud.io" target="_blank">dev:mordiford</a></p>
 						<p>Google+ - <a href="https://plus.google.com/+HotakaHitagi" target="_blank">+HotakaHitagi</a></p>
 						<p>GitHub - <a href="https://github.com/lindwurm" target="_blank">lindwurm</a></p>
 						<p>XDA-Developers - <a href="http://forum.xda-developers.com/member.php?u=6024671" target="_blank">@1indwurm</a></p>
